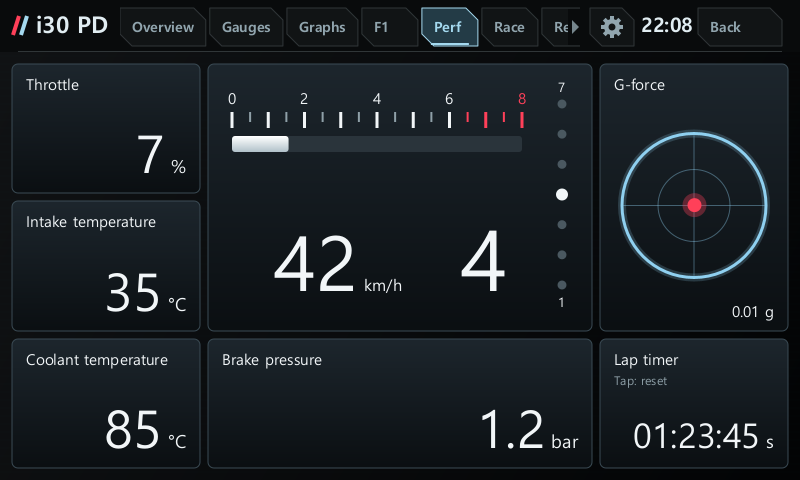
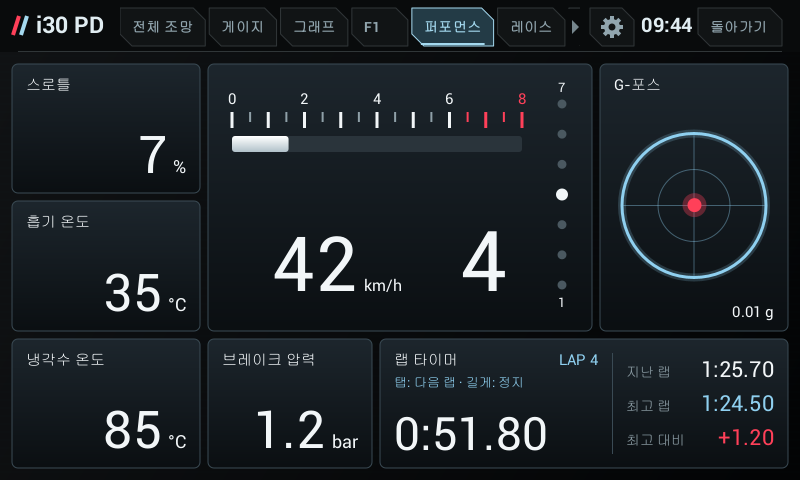
Performance: a real lap timer (laps, last, best, delta) across the bottom right; 1:23.45 instead of 01:23:45 s
Tap starts, then each tap closes a lap and starts the next (taps in a lap's first 3 s are ignored);
a 0.7 s hold stops, and a second hold clears, so one stray tap can no longer wipe the time. The card
takes the bottom row after a narrower brake-pressure card. Logic in LapTimer, host-tested.

Claude-Session: https://claude.ai/code/session_01Az6daR2hPKNjYgzVENe1Hy

diff --git a/shared/src/com/veloster/vehicle/VehicleDash.java b/shared/src/com/veloster/vehicle/VehicleDash.java
@@ -52,8 +52,8 @@ public final class VehicleDash extends View implements Runnable {
     private final int[] modeTargets=ClusterPicker.MODE_DEFAULT.clone();
     private int pickSlot=-1;
     private final HeaderTabs header=renderer.header();
-    private boolean lapRunning;
-    private long lapStart, lapMs;
+    private final LapTimer lap=new LapTimer();
+    private boolean lapHeld;   // the hold already acted; the finger's release is not a tap
     private long introStart;
     private float downX,downY;
     private long lastDiagnostic;
@@ -78,6 +78,11 @@ public final class VehicleDash extends View implements Runnable {
             int slot=graphs?graphLayout.hit(downX,downY):gaugeEditor.hit(downX,downY);
             if(slot>=0){touching=false;if(graphs)graphEditor.edit(slot);else gaugeEditor.edit(slot);}
         }
+    }};
+    /** Lap card on the performance page (PerformanceRenderer.LAP_*). */
+    private boolean onLap(float x,float y){return symmetric&&page==PitRenderer.PAGE_PERFORMANCE&&x>=PerformanceRenderer.LAP_L&&x<=PerformanceRenderer.LAP_R&&y>=PerformanceRenderer.LAP_T&&y<=PerformanceRenderer.LAP_B;}
+    private final Runnable lapHold=new Runnable(){public void run(){
+        if(touching&&!blocked&&getVisibility()==VISIBLE&&onLap(downX,downY)&&lap.hold(SystemClock.elapsedRealtime())){lapHeld=true;invalidate();}
     }};
     private final Runnable clusterHold=new Runnable(){public void run(){
         if(touching&&!blocked&&getVisibility()==VISIBLE&&header.onStrip(downX,downY)){
@@ -224,7 +229,7 @@ public final class VehicleDash extends View implements Runnable {
     public static void hscanPd(int cid,int funcLow,byte[] data,long receivedAt){DATA.hscanPd(cid,funcLow,data,receivedAt);}
     public static void obd(int pid,byte[] d){DATA.obd(pid,d,SystemClock.elapsedRealtime());}
     protected void onAttachedToWindow() { super.onAttachedToWindow(); introStart=0; artwork.open();mediaReceiver.start(activity); post(this); }
-    protected void onDetachedFromWindow() { removeCallbacks(this);removeCallbacks(editHold);removeCallbacks(clusterHold);dismissList();touching=false;gaugeEditor.dismiss();graphEditor.dismiss();mediaReceiver.stop();artwork.close();super.onDetachedFromWindow(); }
+    protected void onDetachedFromWindow() { removeCallbacks(this);removeCallbacks(editHold);removeCallbacks(clusterHold);removeCallbacks(lapHold);dismissList();touching=false;gaugeEditor.dismiss();graphEditor.dismiss();mediaReceiver.stop();artwork.close();super.onDetachedFromWindow(); }
     public void run() {
         long delay=100;
         long tick=SystemClock.elapsedRealtime();
@@ -233,7 +238,7 @@ public final class VehicleDash extends View implements Runnable {
         if(getVisibility()==VISIBLE) {
             invalidate();long now=SystemClock.elapsedRealtime();
             if(graphs)delay=250;
-            else if(symmetric&&page==PitRenderer.PAGE_PERFORMANCE&&lapRunning)delay=33;
+            else if(symmetric&&page==PitRenderer.PAGE_PERFORMANCE&&lap.state()==LapTimer.RUNNING)delay=33;
             else if(symmetric&&page>=PitRenderer.PAGE_RACE)delay=50;  // shift blink, upshift pop, live run timers
             else if(!(cluster&&media&&!gauges) && mediaState.snapshot(now).notice)delay=16;
             if(introStart>0&&now-introStart<1500)delay=Math.min(delay,33);   // smooth the welcome sweep
@@ -262,7 +267,7 @@ public final class VehicleDash extends View implements Runnable {
         renderer.setPicker(picker,editing,hidden);renderer.setOrder(order,settingsScroll);
         renderer.setModeOptions(modeColor,modeScreen);
         if(picker&&editing)renderer.setSettings(settingsCat,LanguageSettings.selection(activity),pickSlot,modeTargets);
-        renderer.setLap(lapRunning?now-lapStart:lapMs,lapRunning);
+        renderer.setLap(lap);
         renderer.setOverviewLayout(overviewLayout);
         long drawStart=System.nanoTime();
         renderer.draw(c,getWidth(),getHeight(),cluster,DATA,now,shiftTarget,media,track);
@@ -295,8 +300,9 @@ public final class VehicleDash extends View implements Runnable {
     public boolean onTouchEvent(MotionEvent event) {
         float x=event.getX()*800/getWidth(), y=event.getY()*480/getHeight();
         if(event.getAction()==MotionEvent.ACTION_DOWN) {
-            removeCallbacks(editHold);removeCallbacks(clusterHold);touching=true;downX=x;downY=y;lastMoveY=y;header.down(x,y);
+            removeCallbacks(editHold);removeCallbacks(clusterHold);removeCallbacks(lapHold);touching=true;downX=x;downY=y;lastMoveY=y;header.down(x,y);
             if(!blocked&&!picker&&header.onStrip(x,y))postDelayed(clusterHold,600);
+            removeCallbacks(lapHold);lapHeld=false;if(!blocked&&!picker&&onLap(x,y))postDelayed(lapHold,700);
             overviewDown=!cluster&&!gauges&&!graphs&&!symmetric&&!blocked&&!overviewCovered(y)?overviewLayout.hit(x,y):-1;
             if(!blocked&&!picker&&((gauges&&gaugeEditor.hit(x,y)>=0)||(graphs&&graphLayout.hit(x,y)>=0)))postDelayed(editHold,600);   // not under the screen list
             return true;
@@ -306,11 +312,11 @@ public final class VehicleDash extends View implements Runnable {
             if(Math.abs(y-downY)>=10)touching=false;   // a drag that scrolls is not a tap
             invalidate();return true;
         }
-        if(event.getAction()==MotionEvent.ACTION_MOVE&&header.move(x,y,event.getEventTime())){touching=false;removeCallbacks(editHold);removeCallbacks(clusterHold);invalidate();return true;}
-        if(event.getAction()==MotionEvent.ACTION_MOVE){if(Math.abs(x-downX)>=16||Math.abs(y-downY)>=16){touching=false;removeCallbacks(editHold);removeCallbacks(clusterHold);}return true;}
-        if(event.getAction()==MotionEvent.ACTION_CANCEL) { touching=false;removeCallbacks(editHold);removeCallbacks(clusterHold);header.up();return true; }
+        if(event.getAction()==MotionEvent.ACTION_MOVE&&header.move(x,y,event.getEventTime())){touching=false;removeCallbacks(editHold);removeCallbacks(clusterHold);removeCallbacks(lapHold);invalidate();return true;}
+        if(event.getAction()==MotionEvent.ACTION_MOVE){if(Math.abs(x-downX)>=16||Math.abs(y-downY)>=16){touching=false;removeCallbacks(editHold);removeCallbacks(clusterHold);removeCallbacks(lapHold);}return true;}
+        if(event.getAction()==MotionEvent.ACTION_CANCEL) { touching=false;removeCallbacks(editHold);removeCallbacks(clusterHold);removeCallbacks(lapHold);header.up();return true; }
         if(event.getAction()!=MotionEvent.ACTION_UP)return true;
-        removeCallbacks(editHold);removeCallbacks(clusterHold);
+        removeCallbacks(editHold);removeCallbacks(clusterHold);removeCallbacks(lapHold);
         if(header.up(event.getEventTime())){touching=false;return true;}   // a strip scroll is never a tap
         boolean tap=touching && Math.abs(x-downX)<16 && Math.abs(y-downY)<16;
         touching=false;
@@ -382,9 +388,8 @@ public final class VehicleDash extends View implements Runnable {
             activity.getSharedPreferences("pit_vehicle_ui",0).edit().putInt("overview_style_"+overviewDown,overviewLayout.style(overviewDown)).apply();
             invalidate();return true;
         }
-        if(tap&&!blocked&&symmetric&&page==PitRenderer.PAGE_PERFORMANCE&&x>=600&&x<=788&&downX>=600&&downX<=788&&y>=339&&y<=468&&downY>=339&&downY<=468){
-            long now=SystemClock.elapsedRealtime();
-            if(lapRunning){lapMs=now-lapStart;lapRunning=false;}else if(lapMs>0)lapMs=0;else{lapStart=now;lapRunning=true;}
+        if(tap&&!blocked&&onLap(x,y)&&onLap(downX,downY)){   // tap: start / next lap / resume; a hold (lapHold) stops, then clears
+            if(!lapHeld)lap.tap(SystemClock.elapsedRealtime());
             invalidate();return true;
         }
         if(tap&&!blocked&&symmetric&&PitRenderer.isCluster(page)&&y>52&&downY>52&&renderer.clusterTap(x,y)){invalidate();return true;}

diff --git a/shared/src/com/veloster/vehicle/PerformanceRenderer.java b/shared/src/com/veloster/vehicle/PerformanceRenderer.java
@@ -11,7 +11,7 @@ import java.util.Locale;
 
 /** N Mode "performance" page of the N cars' head unit, laid out for the i30 PD below the shared navigation:
  * throttle / intake air / coolant on the left (no oil sensor on this engine), RPM strip + 7-speed gear dots + speed + selector and brake pressure in the
- * middle, G-force and a tap-driven lap timer on the right. The N page's circuit map needs GPS track data, so the
+ * middle, G-force on the right, and a lap timer (LapTimer) across the bottom right with the brake pressure beside it. The N page's circuit map needs GPS track data, so the
  * same blue-outline / red-dot card shows the G-ball instead. Only received samples are drawn; missing ones show a dash. */
 public final class PerformanceRenderer {
     /** Every colour goes through the selected theme (identity for N). */
@@ -22,26 +22,42 @@ public final class PerformanceRenderer {
     private static final int TEXT=0xfff2f6f8,MUTED=0xff8fa0a8,EDGE=0xff3a4a54,TRACK=0xff2a343b,BLUE=0xff8fd0f0,RED=0xffff4059;
     private VehicleProfile prof=VehicleProfile.PETROL_DCT;
     // 3 rows x 3 columns, pad 12, gap 8; the middle and right top cards span two rows.
-    private static final float T0=64,T1=201,T2=339,B0=193,B1=331,B2=468,LL=12,LR=200,CL=208,CR=592,RL=600,RR=788;
+    private static final float T0=64,T1=201,T2=339,B0=193,B1=331,B2=468,LL=12,LR=200,CL=208,CR=592,RL=600,RR=788,BR=372;
+    /** The lap card (VehicleDash hit-tests it): bottom row from after the brake card to the right edge. */
+    public static final float LAP_L=380,LAP_R=RR,LAP_T=T2,LAP_B=B2;
+    private static final int GREEN=0xff4cd964;
     private Telemetry.Sample[] s;
 
     private float v(int i){return i>=0&&i<s.length&&s[i].valid&&!Float.isNaN(s[i].value)&&!Float.isInfinite(s[i].value)?Telemetry.displayValue(i,s[i].value):Float.NaN;}
     private static String fmt(String f,float x){return Float.isNaN(x)?"—":Telemetry.format(f,x);}
 
-    public void draw(Canvas c,Telemetry.Sample[] samples,long lapMs,boolean lapRunning,VehicleProfile profile){
+    /** lap null: an idle timer (thumbnails). */
+    public void draw(Canvas c,Telemetry.Sample[] samples,LapTimer lap,long now,VehicleProfile profile){
         s=samples;prof=profile;
         value(c,UiText.t("스로틀"),fmt("%.0f",v(Telemetry.THROTTLE_POS)),"%",LL,T0,LR,B0);
         value(c,UiText.t("흡기 온도"),fmt("%.0f",v(Telemetry.INTAKE)),"°C",LL,T1,LR,B1);
         value(c,UiText.t("냉각수 온도"),fmt("%.0f",v(2)),"°C",LL,T2,LR,B2);
         rpmCard(c);
-        value(c,UiText.t("브레이크 압력"),fmt("%.1f",v(10)),"bar",CL,T2,CR,B2);
+        value(c,UiText.t("브레이크 압력"),fmt("%.1f",v(10)),"bar",CL,T2,BR,B2);
         if(prof.trans==VehicleProfile.Trans.MT){float k=v(Telemetry.CLUTCH);   // 6MT: the clutch switch under the brake caption
             text(c,"CLUTCH "+(Float.isNaN(k)?"—":k>0?"IN":"OUT"),CL+14,T2+46,12,k>0?BLUE:MUTED,Paint.Align.LEFT);}
         gforce(c);
-        long cs=lapMs/10;
-        String lap=String.format(Locale.US,"%02d:%02d:%02d",cs/6000%100,cs/100%60,cs%100);
-        value(c,UiText.t("랩 타이머"),lap,"s",RL,T2,RR,B2);
-        text(c,UiText.t(lapRunning?"탭: 정지":lapMs>0?"탭: 초기화":"탭: 시작"),RL+14,T2+46,12,lapRunning?RED:MUTED,Paint.Align.LEFT);
+        lapCard(c,lap==null?new LapTimer():lap,now);
+    }
+    /** Current lap large on the left with the lap number and what a tap / hold does; last, best and the delta on the right. */
+    private void lapCard(Canvas c,LapTimer lap,long now){
+        float l=LAP_L,t=LAP_T,rr=LAP_R,b=LAP_B,mid=l+232;int st=lap.state();
+        card(c,UiText.t("랩 타이머"),l,t,rr,b);
+        if(st!=LapTimer.IDLE)text(c,"LAP "+(lap.laps+1),mid-14,t+26,15,BLUE,Paint.Align.RIGHT);
+        text(c,UiText.t(st==LapTimer.RUNNING?"탭: 다음 랩 · 길게: 정지":st==LapTimer.STOPPED?"탭: 계속 · 길게: 초기화":"탭: 시작"),l+14,t+48,13,
+            st==LapTimer.RUNNING?BLUE:st==LapTimer.STOPPED?RED:MUTED,Paint.Align.LEFT);
+        text(c,LapTimer.format(lap.current(now)),l+14,b-18,46,st==LapTimer.STOPPED?MUTED:TEXT,Paint.Align.LEFT);
+        p.setColor(T(EDGE));c.drawRect(mid,t+14,mid+1,b-14,p);
+        String[] lab={UiText.t("지난 랩"),UiText.t("최고 랩"),UiText.t("최고 대비")};
+        long d=lap.delta();
+        String[] val={LapTimer.format(lap.last),LapTimer.format(lap.best),d==Long.MIN_VALUE?"—":LapTimer.formatDelta(d)};
+        int[] col={TEXT,BLUE,d==Long.MIN_VALUE?TEXT:d<0?GREEN:RED};
+        for(int i=0;i<3;i++){float y=t+38+i*34;text(c,lab[i],mid+14,y,14,MUTED,Paint.Align.LEFT);text(c,val[i],rr-14,y,22,col[i],Paint.Align.RIGHT);}
     }
     /** Glass card: top-lit vertical gradient, 1 px edge, caption top-left. */
     private void card(Canvas c,String caption,float l,float t,float rr,float b){

diff --git a/shared/src/com/veloster/vehicle/PitRenderer.java b/shared/src/com/veloster/vehicle/PitRenderer.java
@@ -68,9 +68,9 @@ public final class PitRenderer {
     private final DriveStats stats=new DriveStats();
     /** Session records, fed every frame whatever tab is shown. */
     public DriveStats stats(){return stats;}
-    private boolean symmetric,lapRunning;
+    private boolean symmetric;
     private int page;
-    private long lapMs;
+    private LapTimer lap=new LapTimer();
     private GraphLayout graphLayout;
     private GaugeLayout gaugeLayout;
     private OverviewLayout overviewLayout=new OverviewLayout();
@@ -88,7 +88,7 @@ public final class PitRenderer {
     public void setSymmetric(boolean value){symmetric=value;}
     /** Performance and race are variants of the symmetric page (symmetric must also be set), so every other tab check stays as is. */
     public void setPage(int value){page=value;}
-    public void setLap(long ms,boolean running){lapMs=ms;lapRunning=running;}
+    public void setLap(LapTimer timer){lap=timer;}
     public void setOverviewLayout(OverviewLayout value){if(value!=null)overviewLayout=value;}
     private static final String[] PREFIX={"엔진 RPM","오일 온도","냉각수 온도","앞 왼쪽 휠","앞 오른쪽 휠","뒤 왼쪽 휠","뒤 오른쪽 휠","속도 km/h","현재 기어","스로틀 %","브레이크 압력 bar","횡가속","종가속","조향각","외기 온도","출력 (계산)","토크 (계산)","부스트 (계산)","앞 왼쪽 공기압","앞 오른쪽 공기압","뒤 왼쪽 공기압","뒤 오른쪽 공기압","TCS","ESC","ABS","배터리 SOC","배터리 전압","조향 속도","e-LSD 수치","흡기 온도"};
     private int index(String prefix){for(int i=0;i<PREFIX.length;i++)if(PREFIX[i].equals(prefix))return i;return -1;}
@@ -126,7 +126,7 @@ public final class PitRenderer {
         chrome(c,width,height,cluster);
         if(graphLayout!=null)graphRenderer.draw(c,model,now,graphLayout);
         else if(gaugeLayout!=null)gaugeRenderer.draw(c,model,now,gaugeLayout);
-        else if(symmetric&&page==PAGE_PERFORMANCE)performanceRenderer.draw(c,samples,lapMs,lapRunning,profile);
+        else if(symmetric&&page==PAGE_PERFORMANCE)performanceRenderer.draw(c,samples,lap,now,profile);
         else if(symmetric&&page==PAGE_SHOW)showRenderer.draw(c,samples,frameTime,profile);
         else if(symmetric&&page==PAGE_RACE)raceRenderer.draw(c,samples,cue,frameTime,stats,profile,media,music,artwork);
         else if(symmetric&&page==PAGE_RECORDS)raceRenderer.drawRecords(c,stats,frameTime);
@@ -337,7 +337,7 @@ public final class PitRenderer {
         else if(s==ClusterPicker.F1)drawCluster(c);
         else if(s==ClusterPicker.OVERVIEW)drawDashboard(c);
         else{int pg=s-ClusterPicker.F1;
-            if(pg==PAGE_PERFORMANCE)performanceRenderer.draw(c,samples,0,false,profile);
+            if(pg==PAGE_PERFORMANCE)performanceRenderer.draw(c,samples,null,frameTime,profile);
             else if(pg==PAGE_SHOW)showRenderer.draw(c,samples,frameTime,profile);
             else if(pg==PAGE_RACE)raceRenderer.draw(c,samples,cue,frameTime,stats,profile,false,null,null);
             else if(pg==PAGE_RECORDS)raceRenderer.drawRecords(c,stats,frameTime);

diff --git a/i30pd_port/app/preview/TabsPreview.java b/i30pd_port/app/preview/TabsPreview.java
@@ -39,8 +39,10 @@ public final class TabsPreview {
         ImageIO.write(intro,"png",new File(out,"0_intro.png"));
         save(out,"2_f1",p,model,now,true,false);
         save(out,"3_f1_media",p,model,now,true,true);
-        PitRenderer perf=new PitRenderer();perf.setSymmetric(true);perf.setPage(PitRenderer.PAGE_PERFORMANCE);perf.setLap(83456,false);
+        PitRenderer perf=new PitRenderer();perf.setSymmetric(true);perf.setPage(PitRenderer.PAGE_PERFORMANCE);LapTimer lap=new LapTimer();lap.tap(now-310000);lap.tap(now-222000);lap.tap(now-137500);lap.tap(now-51800);perf.setLap(lap);   // lap 4 running; lap 2 is the best, lap 3 is 1.2 s off it
         save(out,"4b_performance",perf,model,now,false,false);
+        lap.hold(now-20000);save(out,"4b_performance_lap_stopped",perf,model,now,false,false);   // stopped 20 s ago: frozen, hold clears
+        perf.setLap(new LapTimer());save(out,"4b_performance_lap_idle",perf,model,now,false,false);
         PitRenderer show=new PitRenderer();show.setSymmetric(true);show.setPage(PitRenderer.PAGE_SHOW);
         save(out,"4e_show",show,model,now,false,false);
         rec.setPage(PitRenderer.PAGE_RACE);save(out,"4c_race",rec,model,now,false,false);
@@ -107,7 +109,7 @@ public final class TabsPreview {
         Telemetry.Sample[] ps=model.snapshot(now);ps[Telemetry.CLUTCH]=new Telemetry.Sample(1,true,false,true,false,0);
         {BufferedImage img=new BufferedImage(800,480,BufferedImage.TYPE_INT_RGB);android.graphics.Canvas pc=new android.graphics.Canvas(img.createGraphics());
          perf.draw(pc,800,480,false,model,now,0,false,null);android.graphics.Paint bg=new android.graphics.Paint(1);bg.setColor(Theme.current().map(0xff040506));pc.drawRect(0,53,800,480,bg);
-         new PerformanceRenderer().draw(pc,ps,83456,false,VehicleProfile.PETROL_MT);ImageIO.write(img,"png",new File(out,"x_perf_mt_clutch.png"));}
+         new PerformanceRenderer().draw(pc,ps,null,now,VehicleProfile.PETROL_MT);ImageIO.write(img,"png",new File(out,"x_perf_mt_clutch.png"));}
         model.obd(0x8b,new byte[]{0x11,0x01,(byte)0x9e,0,0,0,0},now);   // regenerating, trigger 62 %
         int[] dl={11,9,0,2};String[] dn={"engine","night","classic","rally"};   // classic and rally carry the warning-lamp row
         for(int k=0;k<dl.length;k++)cluster(out,"x_"+dn[k]+"_diesel_regen",dl[k],model,now,rec.stats(),VehicleProfile.DIESEL_DCT);

diff --git a/shared/src/com/veloster/vehicle/LapTimer.java b/shared/src/com/veloster/vehicle/LapTimer.java
@@ -1,0 +1,45 @@
+package com.veloster.vehicle;
+
+import java.util.Locale;
+
+/**
+ * Lap timer for the performance page. Tap: start, then each tap closes a lap and starts the next (taps within
+ * MIN_LAP of a lap's start are ignored, so a double tap cannot record a 0.3 s lap); a stopped timer resumes the same
+ * lap. Hold: stop while running, clear everything while stopped. No Android: host-tested.
+ */
+public final class LapTimer {
+    public static final int IDLE=0,RUNNING=1,STOPPED=2;
+    static final long MIN_LAP=3000;
+    private int state;
+    private long lapStart,stoppedAt;
+    /** Laps completed; the last, the best, and the best before the last lap (for its delta), -1 when none. */
+    public int laps;
+    public long last=-1,best=-1,bestBefore=-1;
+
+    public int state(){return state;}
+    /** True when the tap did something. */
+    public boolean tap(long now){
+        if(state==IDLE){lapStart=now;state=RUNNING;return true;}
+        if(state==STOPPED){lapStart+=now-stoppedAt;state=RUNNING;return true;}
+        long t=now-lapStart;
+        if(t<MIN_LAP)return false;
+        bestBefore=best;last=t;if(best<0||t<best)best=t;laps++;lapStart=now;return true;
+    }
+    /** True when the hold did something. */
+    public boolean hold(long now){
+        if(state==RUNNING){stoppedAt=now;state=STOPPED;return true;}
+        if(state==STOPPED){state=IDLE;laps=0;last=best=bestBefore=-1;return true;}
+        return false;
+    }
+    /** The lap in progress (frozen while stopped, 0 when idle). */
+    public long current(long now){return state==IDLE?0:(state==RUNNING?now:stoppedAt)-lapStart;}
+    /** Last lap against the best before it (negative: a new best); Long.MIN_VALUE when there is nothing to compare. */
+    public long delta(){return last<0||bestBefore<0?Long.MIN_VALUE:last-bestBefore;}
+    /** m:ss.cc, minutes unpadded ("1:23.45"); "—" for -1. */
+    public static String format(long ms){
+        if(ms<0)return "—";long cs=ms/10;
+        return String.format(Locale.US,"%d:%02d.%02d",cs/6000,cs/100%60,cs%100);
+    }
+    /** +0.42 / -1.05 seconds. */
+    public static String formatDelta(long ms){return String.format(Locale.US,"%s%d.%02d",ms<0?"-":"+",Math.abs(ms)/1000,Math.abs(ms)/10%100);}
+}

diff --git a/tests/LapTimerTest.java b/tests/LapTimerTest.java
@@ -1,0 +1,22 @@
+import com.veloster.vehicle.LapTimer;
+
+/** Lap timer: tap starts and closes laps, hold stops then clears, quick double taps never make a lap. */
+public final class LapTimerTest {
+    private static int checks;
+    private static void check(boolean b,String s){checks++;if(!b)throw new AssertionError(s);}
+    public static void main(String[] args){
+        LapTimer l=new LapTimer();
+        check(l.state()==LapTimer.IDLE&&l.current(5000)==0&&!l.hold(5000),"idle: nothing to stop");
+        l.tap(1000);check(l.state()==LapTimer.RUNNING&&l.current(1500)==500,"tap starts lap 1");
+        check(!l.tap(2000)&&l.laps==0,"a tap 1 s into the lap is ignored (double tap)");
+        l.tap(91000);check(l.laps==1&&l.last==90000&&l.best==90000&&l.delta()==Long.MIN_VALUE,"lap 1: 1:30.00, nothing to compare");
+        l.tap(176000);check(l.laps==2&&l.last==85000&&l.best==85000&&l.delta()==-5000,"lap 2 is 5 s quicker: a new best, -5.00");
+        l.tap(264000);check(l.last==88000&&l.best==85000&&l.delta()==3000,"lap 3 is 3 s off the best");
+        l.hold(270000);check(l.state()==LapTimer.STOPPED&&l.current(999999)==6000,"hold stops; the lap is frozen at 6 s");
+        l.tap(300000);check(l.state()==LapTimer.RUNNING&&l.current(301000)==7000,"tap resumes the same lap without the pause");
+        l.hold(302000);l.hold(303000);check(l.state()==LapTimer.IDLE&&l.laps==0&&l.best==-1,"hold twice: stopped, then cleared");
+        check(LapTimer.format(83456).equals("1:23.45")&&LapTimer.format(-1).equals("—")&&LapTimer.format(605000).equals("10:05.00"),"m:ss.cc");
+        check(LapTimer.formatDelta(-5000).equals("-5.00")&&LapTimer.formatDelta(420).equals("+0.42"),"delta format");
+        System.out.println("PASS "+checks+" lap timer checks");
+    }
+}

diff --git a/shared/src/com/veloster/i18n/UiText.java b/shared/src/com/veloster/i18n/UiText.java
@@ -462,6 +462,7 @@ public final class UiText {
         EN.put("지금","Now");
         EN.put("지금 연비 ","Now ");
         EN.put("지금은 연료를 안 씁니다","No fuel being used");
+        EN.put("지난 랩","Last");
         EN.put("진단","DTC");
         EN.put("진단 서비스에 연결하지 못했습니다.","Could not connect to the diagnostic service.");
         EN.put("차량 계산값","From the car");
@@ -476,6 +477,8 @@ public final class UiText {
         EN.put("최고 0→100 km/h 초","Best 0→100 km/h s");
         EN.put("최고 RPM","Peak rpm");
         EN.put("최고 감속G","Peak decel G");
+        EN.put("최고 대비","vs best");
+        EN.put("최고 랩","Best");
         EN.put("최고 부스트","Peak boost");
         EN.put("최고 부스트 순간","At peak boost");
         EN.put("최고 속도","Top speed");
@@ -508,9 +511,9 @@ public final class UiText {
         EN.put("타이어 공기압 낮음","Low tire pressure");
         EN.put("택시","Taxi");
         EN.put("택시 미터기","Taxi meter");
+        EN.put("탭: 계속 · 길게: 초기화","Tap: resume · Hold: clear");
+        EN.put("탭: 다음 랩 · 길게: 정지","Tap: next lap · Hold: stop");
         EN.put("탭: 시작","Tap: start");
-        EN.put("탭: 정지","Tap: stop");
-        EN.put("탭: 초기화","Tap: reset");
         EN.put("테마","Theme");
         EN.put("토크 (계산)","Torque (calc.)");
         EN.put("통과 속도","Trap speed");

diff --git a/scripts/test.py b/scripts/test.py
@@ -32,6 +32,7 @@ def main():
                ROOT / "shared/src/com/veloster/vehicle/SparkRetard.java",
                ROOT / "shared/src/com/veloster/vehicle/DayPhase.java",
                ROOT / "shared/src/com/veloster/vehicle/TaxiFare.java",
+               ROOT / "shared/src/com/veloster/vehicle/LapTimer.java",
                ROOT / "shared/src/com/veloster/vehicle/CarPaint.java",
                ROOT / "shared/src/com/veloster/vehicle/RoadJolt.java",
                ROOT / "shared/src/com/veloster/vehicle/Weather.java",

diff --git a/i30pd_port/app/TABS.md b/i30pd_port/app/TABS.md
@@ -49,9 +49,12 @@ for f in Roboto-Regular Roboto-Bold; do curl -sfL "https://android.googlesource.
 
 - 왼쪽 3칸: **스로틀**(스로틀판 개도 TPS) · **흡기 온도** · **냉각수 온도**. N 화면의 오일 온도 자리에 흡기 온도를 넣었다(오일온 센서 없음).
 - 가운데 큰 칸: **RPM 눈금**(0~8, 7000부터 빨강)과 흰 막대, 오른쪽 **단수 점 7개**(7DCT, 위가 7단), 아래 **속도 km/h**와 **변속 표시**(P/R/N, D에서는 단수, 수동 게이트에서는 `M3` 식).
-- 가운데 아래: **브레이크 압력**(bar).
+- 가운데 아래 왼쪽: **브레이크 압력**(bar).
 - 오른쪽 위: N 화면의 '서킷'(GPS 랩 지도) 자리. 이 앱은 GPS 트랙을 쓰지 않으므로 같은 모양(하늘색 원 + 빨간 점)의 **G-포스**(반경 1.2 g)를 넣었다.
-- 오른쪽 아래: **랩 타이머** `분:초:1/100초`. 칸을 누를 때마다 시작 → 정지 → 초기화. 앱을 닫으면 사라진다. 미리보기 이미지의 01:23:45는 예시 값.
+- 아래 오른쪽 넓은 칸: **랩 타이머** `분:초.1/100초`(예: 1:23.45). 왼쪽에 지금 랩(크게)과 랩 번호, 오른쪽에 지난 랩 · 최고 랩 · 최고 대비(빠르면 초록, 느리면 빨강).
+  - 탭: 시작 → 달리는 중에는 한 번 탭할 때마다 그 랩을 기록하고 다음 랩 시작. 랩 시작 3초 안의 탭은 무시(두 번 눌림 방지).
+  - 길게(0.7초): 달리는 중이면 정지, 정지 상태면 전체 초기화. 정지 상태에서 탭하면 같은 랩을 이어서 잰다.
+  - 앱을 닫으면 사라진다. 미리보기 이미지의 랩 값은 예시.
 
 ## 3-1b. 쇼
 
